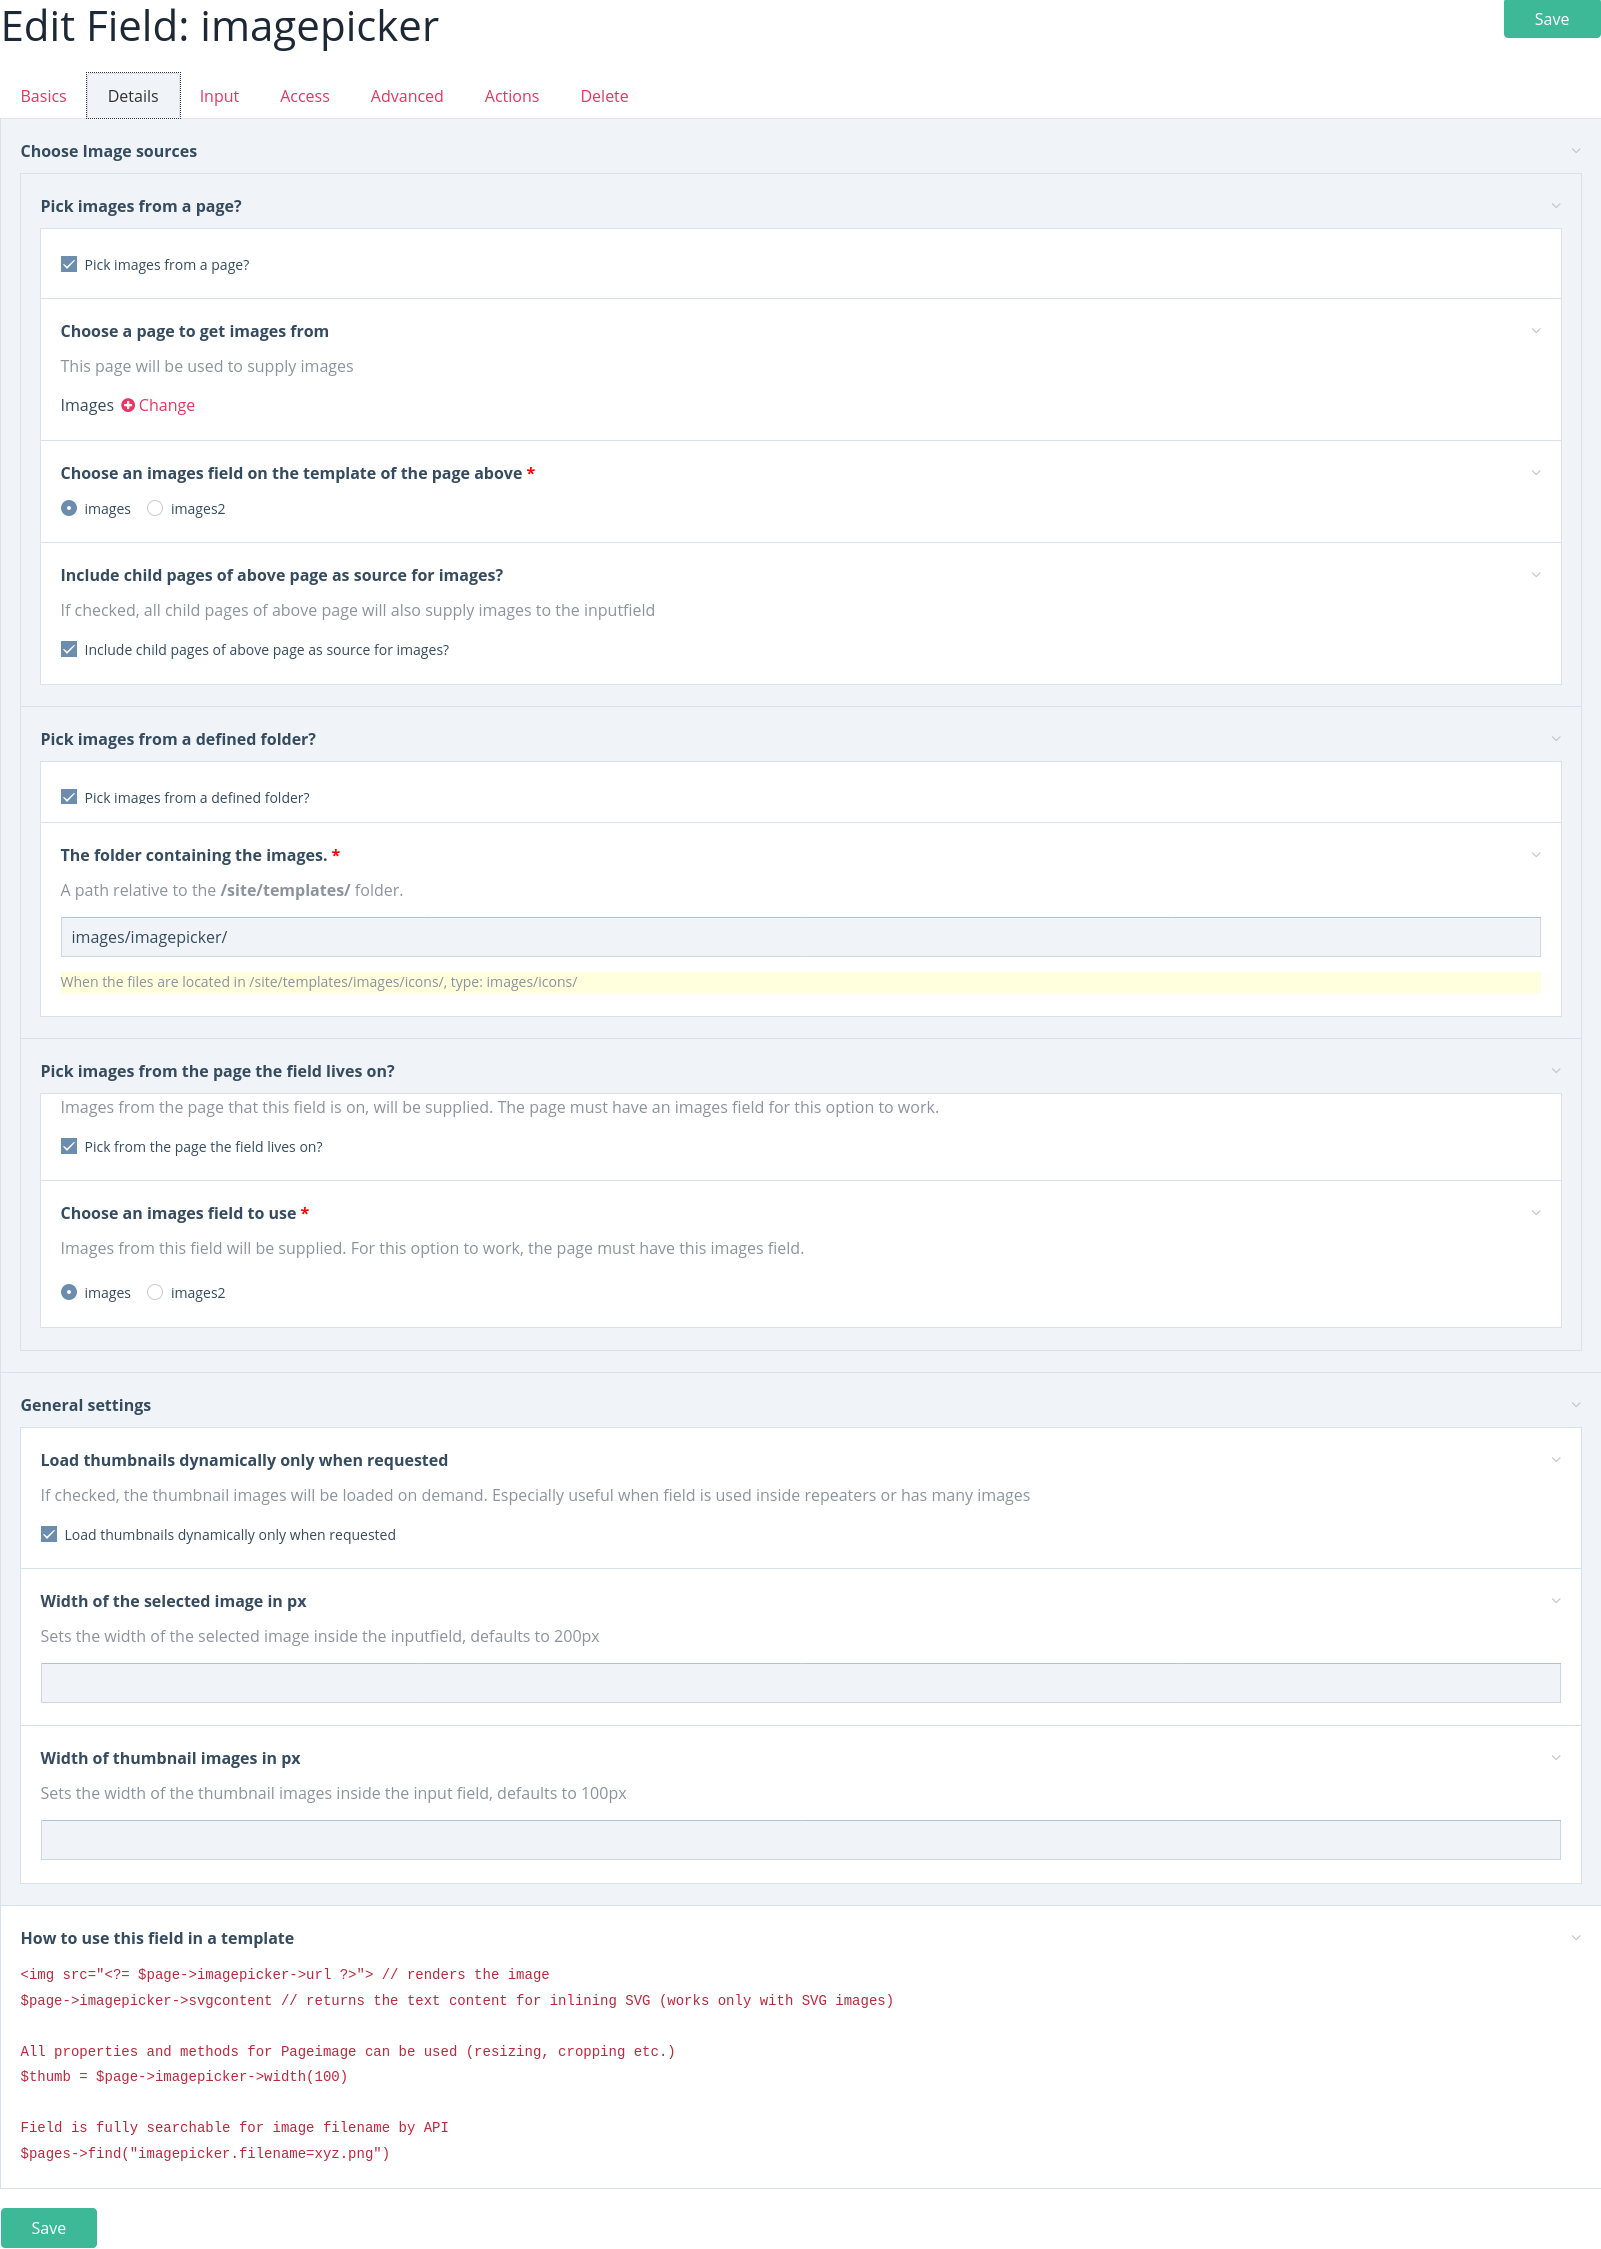
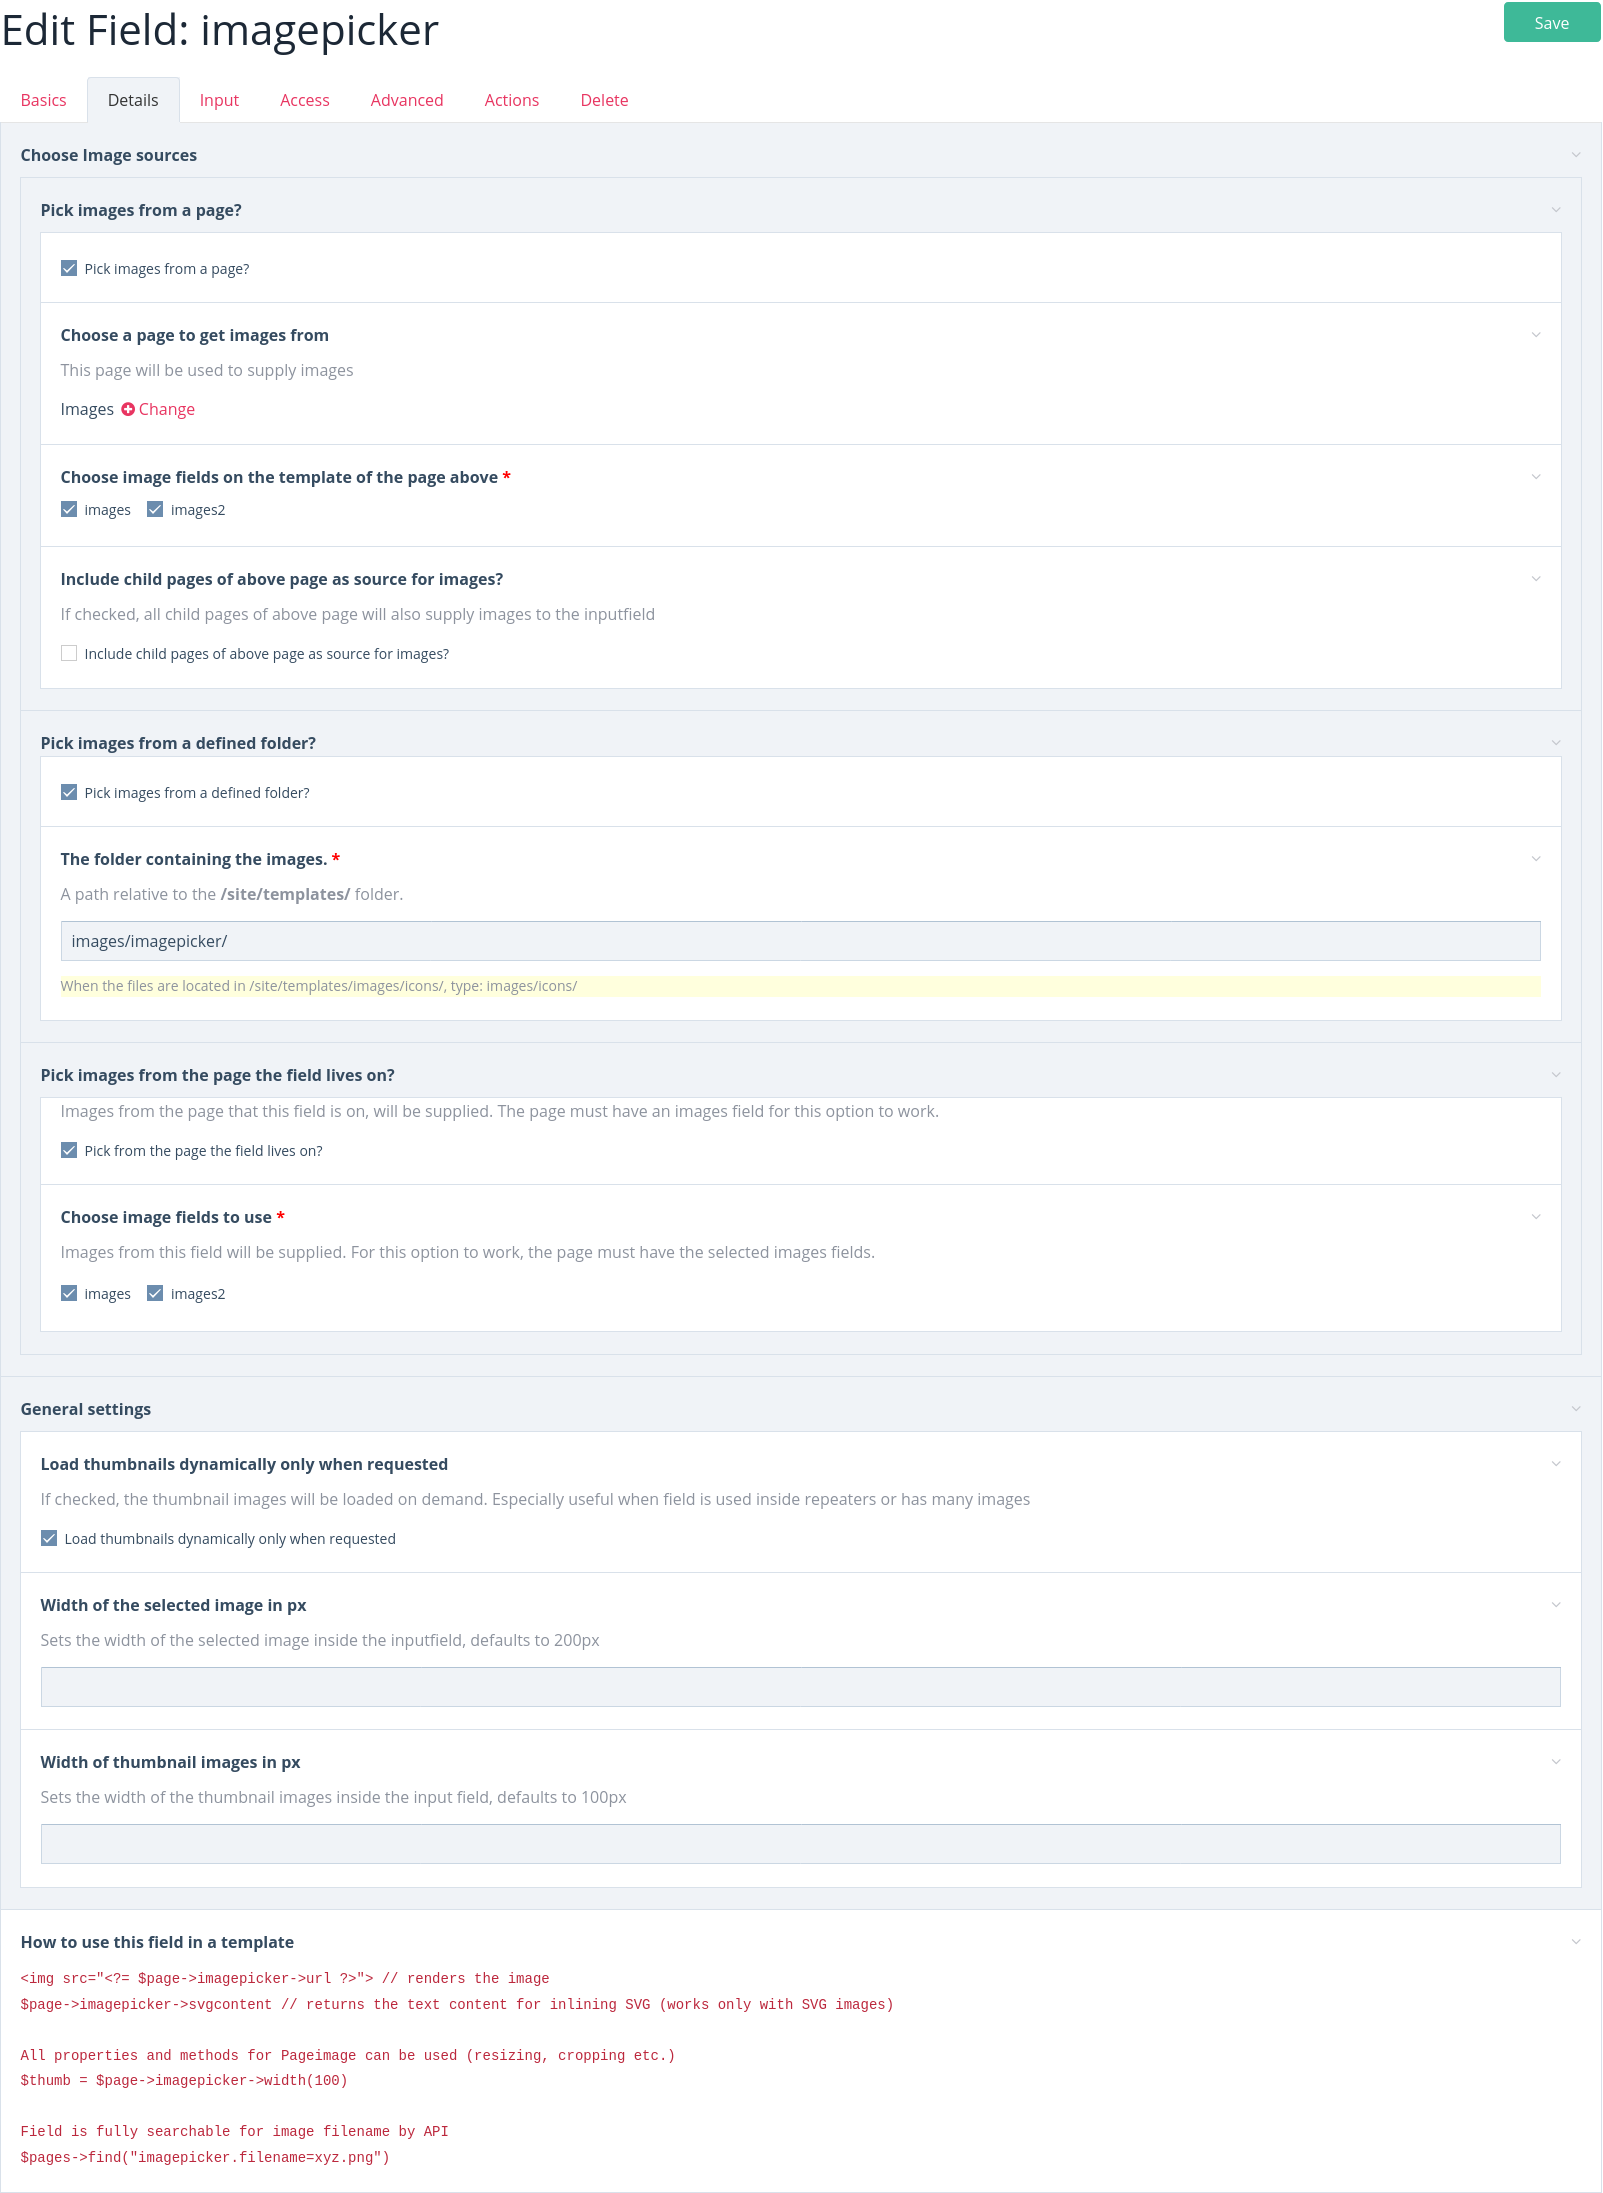
choose multiple image fields

diff --git a/README.md b/README.md
@@ -32,10 +32,10 @@ $pages->find('fieldname.filename%=xy.png');
 ### Settings / Options
 * The page containing the images to choose from.
     - images from that page and optionally it's child pages will be used as site-wide images.
-* The field name of the images field on that page.
+* The image fields to use.
 * Option to include images from child pages of the page that contains images
 * A folder containing the images to choose from
-* Option to also include the images from the page that this field lives on
+* Option to also include the images from the page that this field lives on (the page being edited)
 * Option to load thumbnails on demand via ajax. Especially useful when field is used inside repeaters or has many images
 * Width of chosen image in Inputfield.
 * Width of image thumbnails in Inputfield.
@@ -86,5 +86,6 @@ $pages->find('fieldname.pageid=1234');
 This module was developed based on ideas from forum members in [this forum thread](https://processwire.com/talk/topic/22732-fieldtypeimagefrompage-pick-an-image-from-various-sources/)
 
 ### Roadmap
-* allow to chose multiple fields where source images are stored
 * upload widget for images in folder
+* option to choose an image from any page on the site
+* allow to choose multiple images
